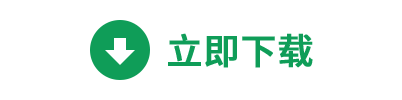
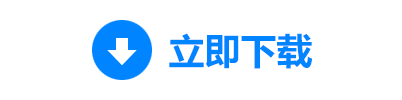
更新冻它官网教程按钮

Changed region(s): [[0.4179, 0.33, 0.7761, 0.69], [0.209, 0.18, 0.3881, 0.81]]

diff --git a/i/freezeit/index.html b/i/freezeit/index.html
@@ -37,28 +37,28 @@
                         <div class="weui-flex">
                             <div class="weui-flex__item">
                                 <p class="title">冻它</p>
-
                                 <p class="sub-title">冻结后台应用的运行<br>避免浪费性能和电量
-                                <p style="font-size:16px;color: #ddd;">注：这是面具模块(Magisk Module), 非独立APP<br>你需要Root你的设备才能使用</p>
+                                <p style="font-size:16px;color: #ddd;">注：这是面具模块(Magisk Module),
+                                    非独立APP<br>你需要Root你的设备才能使用</p>
                                 </p>
-
                             </div>
                         </div>
                         <div class="download-group">
                             <div class="web-download-box"
                                 style="background-color:transparent;justify-content:space-around;height:154px;padding:0;margin-left:15px">
-                                <a href="https://ghproxy.com/https://raw.githubusercontent.com/jark006/freezeitRelease/main/freezeit_v2.4.1.zip"
-                                    target="_blank" style="height:60px"><img class="web-download-" src="./download.png"
-                                        alt="立即下载" style="height:60px"></a>
+                                <a href="https://ghproxy.com/https://raw.githubusercontent.com/jark006/freezeitRelease/main/freezeit_v2.4.1.zip">
+                                    <img class="web-download-" src="./download.png" style="height:60px"></a>
+                                <a href="https://jark006.github.io/FreezeitIntroduction/">
+                                    <img class="web-download-" src="./tutorials.png" style="height:60px"></a>
                             </div>
                         </div>
                         <div id="mobile-download-box" class="weui-flex">
                             <div class="weui-flex__item">
-                                <div class="mobile-download-button-box"><a
-                                        href="https://ghproxy.com/https://raw.githubusercontent.com/jark006/freezeitRelease/main/freezeit_v2.4.1.zip"
-                                        class="download-link" data-ios=""
-                                        data-android="https://ghproxy.com/https://raw.githubusercontent.com/jark006/freezeitRelease/main/freezeit_v2.4.1.zip"><img
-                                            src="./download.png" alt="立即下载"> </a>
+                                <div class="mobile-download-button-box">
+                                    <a href="https://ghproxy.com/https://raw.githubusercontent.com/jark006/freezeitRelease/main/freezeit_v2.4.1.zip"
+                                        class="download-link"><img src="./download.png"></a>
+                                    <a href="https://jark006.github.io/FreezeitIntroduction/"> <img
+                                            src="./tutorials.png"></a>
                                 </div>
                             </div>
                         </div>
@@ -97,7 +97,8 @@
                 </div>
             </div>
         </div>
-        <div id="footer" styld="z-index: 10;">©2023 <a href="https://github.com/jark006" target="_blank">Github @JARK006</a>
+        <div id="footer" styld="z-index: 10;">©2023 <a href="https://github.com/jark006" target="_blank">Github
+                @JARK006</a>
         </div>
     </div>
     <style>
